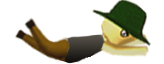
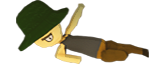
[メインシーン]崩壊のSEを調整[オープニングシーン]崩壊SE、ブラックアウト、シーン切り替え、OPシーンのスキップ機能を追加 [タイトルシーン]ブラックアウトでシーン切り替えに変更[素材]プレイヤーのジャンプ、スライディング、クリア画面の画像更新

diff --git a/DirectX12/DirectX12 Game Solution/DirectX12 MainProject/GameOverScene.cpp b/DirectX12/DirectX12 Game Solution/DirectX12 MainProject/GameOverScene.cpp
@@ -35,6 +35,7 @@ void GameOverScene::Initialize()
     seCount = 0.0f;
     sePlayFlagMain = false;
     sePlayFlagTitle = false;
+    DontDestroy->collapseSEFlag = false;
 }
 
 // Allocate all memory the Direct3D and Direct2D resources.
@@ -202,6 +203,7 @@ NextScene GameOverScene::GameOverSceneUpdate(const float deltaTime) {
             DXTK->GamePadEvent->a == GamePad::ButtonStateTracker::PRESSED) {
             sePlayFlagMain = true;
             seDecision->Play();
+            DontDestroy->collapseSEFlag = true;
         }
     }
 

diff --git a/DirectX12/DirectX12 Game Solution/DirectX12 MainProject/MainScene.h b/DirectX12/DirectX12 Game Solution/DirectX12 MainProject/MainScene.h
@@ -6,6 +6,7 @@
 
 #include "Scene.h"
 #include <random>
+#include "DontDestroyOnLoad.h"
 
 using Microsoft::WRL::ComPtr;
 using std::unique_ptr;
@@ -172,7 +173,7 @@ private:
 
     //BGM
     DX9::MEDIARENDERER mediaMainbgm;
-    DX9::MEDIARENDERER mediaCollapsese;
+    //DX9::MEDIARENDERER mediaCollapsese;
     int collapseVolume;
 
     //SE

diff --git a/DirectX12/DirectX12 Game Solution/DirectX12 MainProject/Scene.h b/DirectX12/DirectX12 Game Solution/DirectX12 MainProject/Scene.h
@@ -11,7 +11,7 @@ enum class NextScene : int {
 	MainScene,
 	GameOverScene,
 	ClearScene,
-	StartScene = openingScene
+	StartScene = TitleScene
 };
 
 class Scene {

diff --git a/DirectX12/DirectX12 Game Solution/DirectX12 MainProject/DontDestroyOnLoad.h b/DirectX12/DirectX12 Game Solution/DirectX12 MainProject/DontDestroyOnLoad.h
@@ -34,6 +34,6 @@ private:
 
 
 public:
-
-
+	DX9::MEDIARENDERER mediaCollapsese;
+	bool collapseSEFlag;
 };
